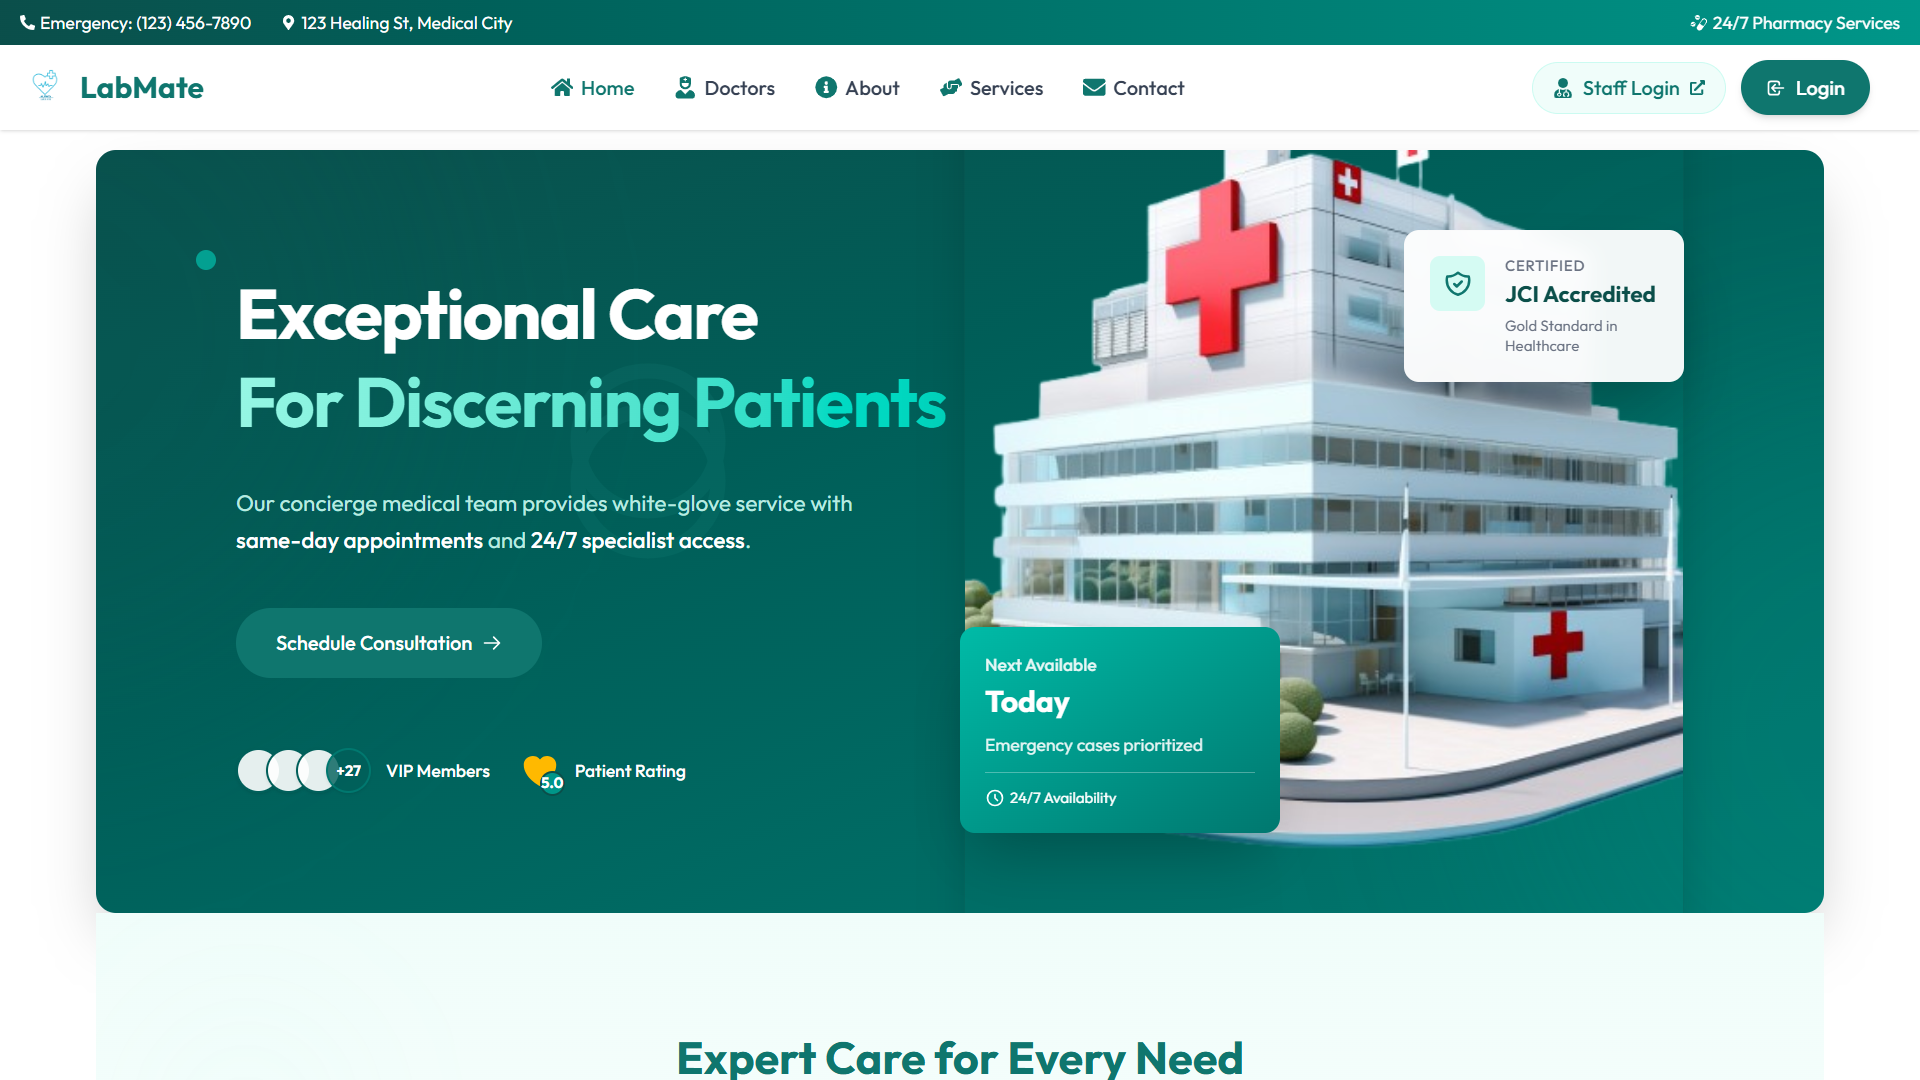
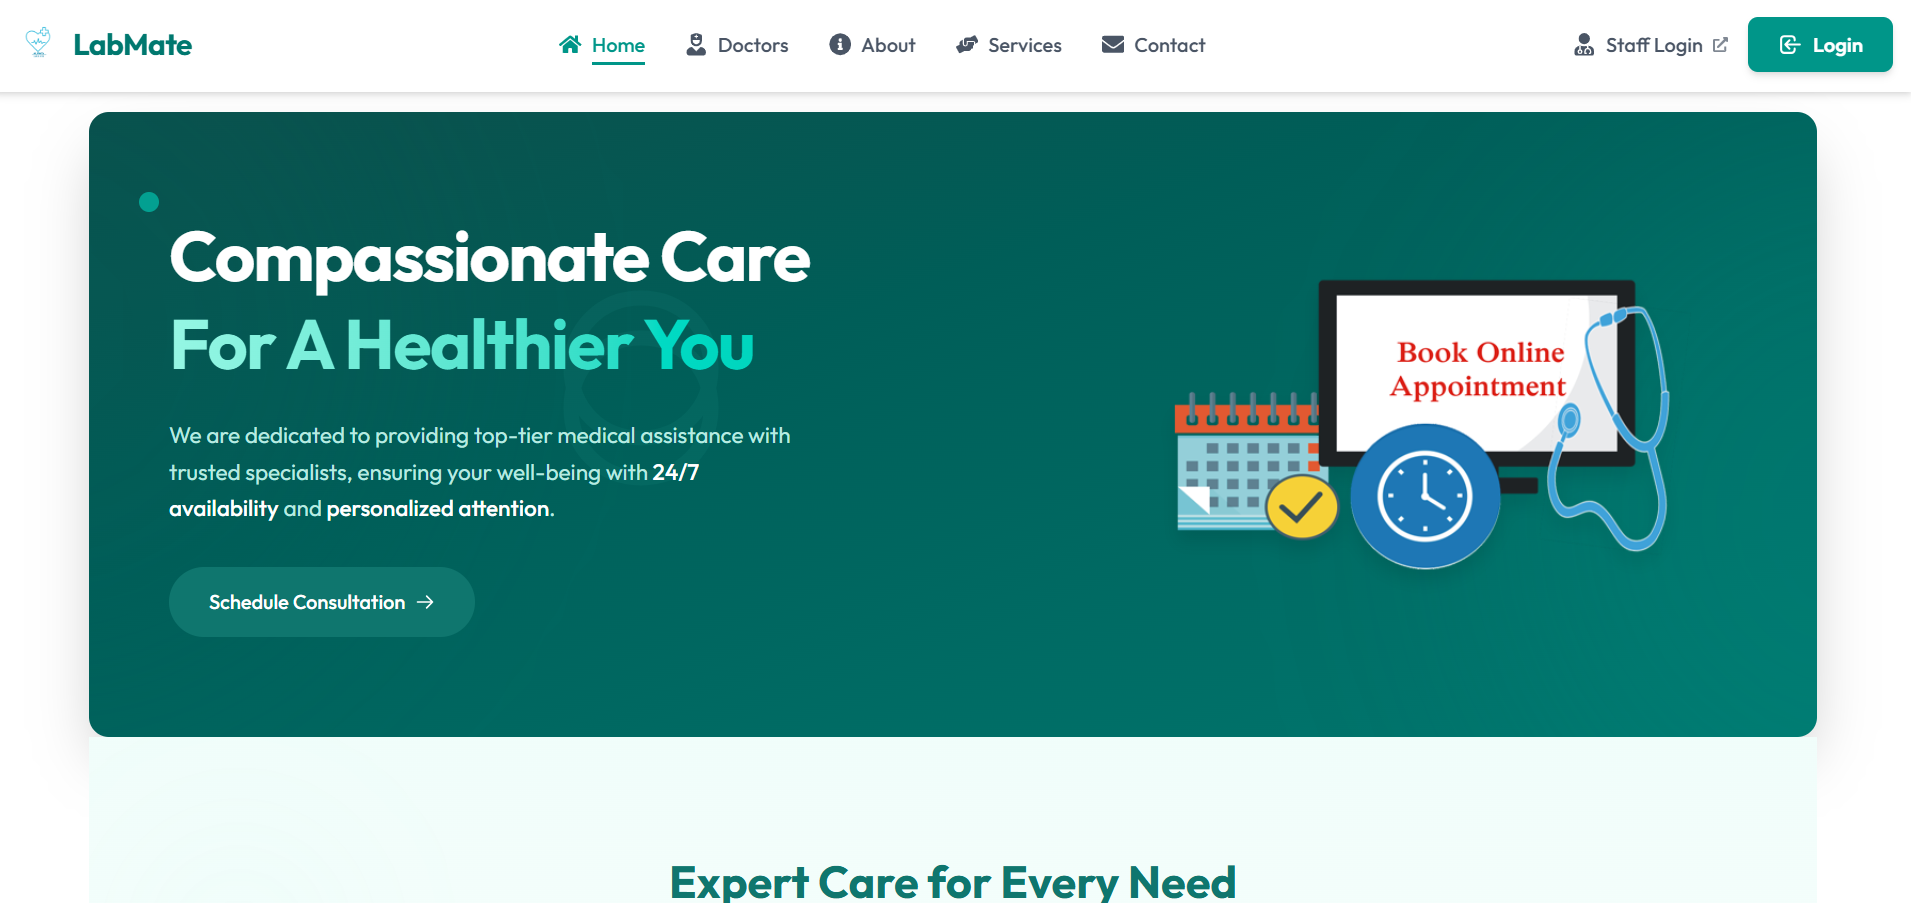
update domain

diff --git a/index.html b/index.html
@@ -12,7 +12,7 @@
     <meta name="author" content="Sushant Rajput" />
     <meta
       property="og:title"
-      content="Sushant-devs - Portfolio of Sushant Rajput"
+      content="Sushant - Portfolio of Sushant Rajput"
     />
     <meta
       property="og:description"
@@ -20,7 +20,7 @@
     />
     <meta
       property="og:image"
-      content="https://sushant-devs.vercel.app/og-image.jpg"
+      content="/og-image.png"
     />
     <meta property="og:url" content="https://sushant-devs.vercel.app" />
     <meta property="og:type" content="website" />
@@ -50,18 +50,18 @@
         "jobTitle": "Web Developer",
         "worksFor": {
           "@type": "Organization",
-          "name": "Sushant-devs"
+          "name": "Sushant"
         }
       }
       </script>
-
+    <script src="https://cdn.visitors.now/v.js" data-token="75251d50-70a2-4403-a8fc-5b939bd93e04"></script>
     <link rel="preconnect" href="https://fonts.googleapis.com" />
     <link rel="preconnect" href="https://fonts.gstatic.com" crossorigin />
     <link
       href="https://fonts.googleapis.com/css2?family=Sora:wght@100..800&display=swap"
       rel="stylesheet"
     />
-    <title>Sushant.dev</title>
+    <title>Sushant</title>
   </head>
   <body>
     <div id="root"></div>

diff --git a/src/main.jsx b/src/main.jsx
@@ -2,7 +2,6 @@ import { StrictMode } from 'react'
 import { createRoot } from 'react-dom/client'
 import './index.css'
 import App from './App.jsx'
-
 createRoot(document.getElementById('root')).render(
   <StrictMode>
     <App />
